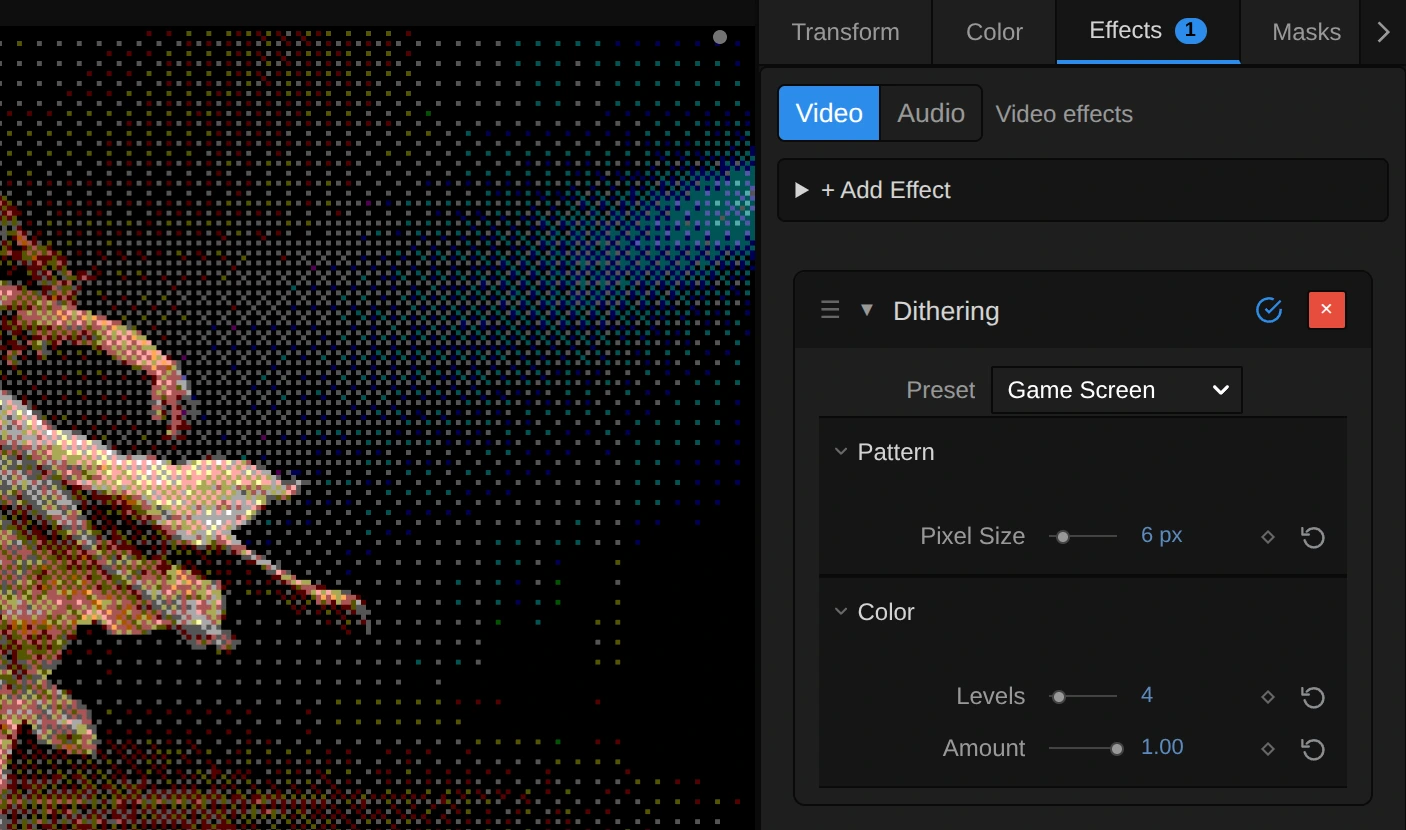
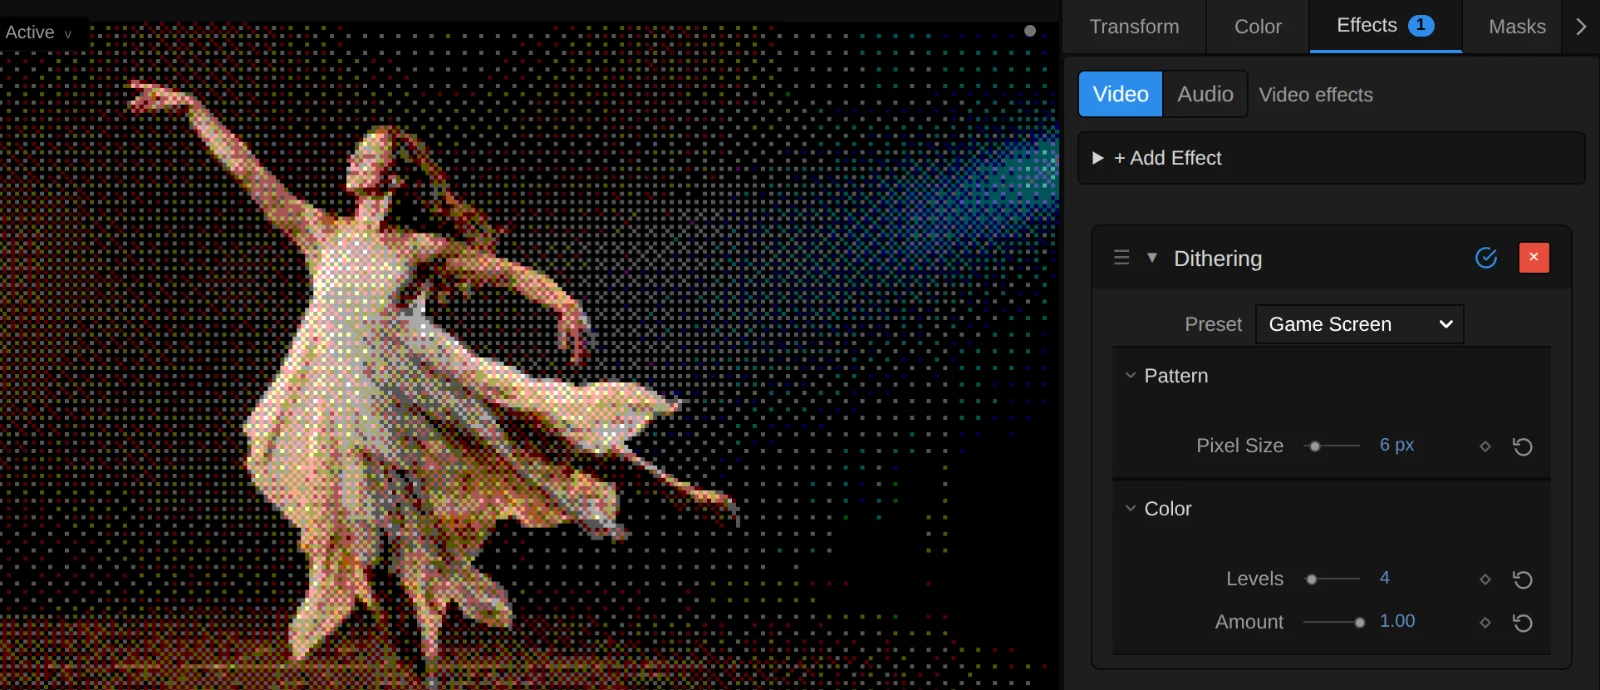
docs(print-looks): Dither and Riso preset strips at full size on the upper body, Dither inspector with the whole figure, truthful stage checker and Neon Sign texts, Riso Glow Registration range back to 80 for saved projects (tests: imageRisoGraphs, effectDocsCatalog, docsSiteSync, effectStyles, effe
Claude-Session: https://claude.ai/code/session_01SPCZUmow7FhgFsrvju87Zb

diff --git a/src/effects/halftone/index.ts b/src/effects/halftone/index.ts
@@ -114,8 +114,9 @@ export const risoGlow = createCatalogEffect({
   // Riso's print (same parameter ids) with a fluorescent Glow Ink that breathes. Card: Dot Size and Registration under
   // Pattern, Glow and Speed under Glow & Pulse, then the two inks and Amount under Color.
   params: {
-    // How far the two inks slip apart, in 1080p pixels (0: in register). Effects saved without a value had 14.
-    scale: { type: 'number', label: 'Registration', default: 3, min: 0, max: 32, step: 0.5, unit: ' px', renderMin: 0, group: 'Pattern', legacyDefault: 14 },
+    // How far the two inks slip apart, in 1080p pixels (0: in register). Effects saved without a value had 14; the range
+    // up to 80 is kept for saved projects (the earlier Riso Glow allowed 80), so a saved slip stays in the card and tools.
+    scale: { type: 'number', label: 'Registration', default: 3, min: 0, max: 80, step: 0.5, unit: ' px', renderMin: 0, group: 'Pattern', legacyDefault: 14 },
     // The cells of both dot screens, in 1080p pixels. A graph saved before Dot Size does not read it (graphOnly).
     dotSize: { type: 'number', label: 'Dot Size', default: 6, min: 2, max: 40, step: 1, unit: ' px', renderMin: 2, graphOnly: true, group: 'Pattern' },
     // How brightly the Glow Ink shines at the top of its pulse (0: a plain two-ink print). Reaches the twin through the Angle slot.

diff --git a/docs/Features/effects/dither.md b/docs/Features/effects/dither.md
@@ -6,7 +6,7 @@ Group: [Print & Halftone](../Effects-Print.md) · [How to add an effect](../Effe
 
 <figure class="docs-shot docs-compare docs-shot--float-left">
 
-![The dancer's face, shoulders and raised arm, original left and with Dithering right: skin, hair and dress turn into a fine checked pattern of a few flat colours, and the dark stage behind her becomes black with sparse grey and red pixels](../assets/effects/dither.webp)
+![The dancer's face, shoulders and raised arm, original left and with Dithering right: skin, hair and dress turn into a fine checked pattern of a few flat colours, and the dark stage becomes a fine checker of grey, red and olive pixels](../assets/effects/dither.webp)
 
 <figcaption>Left: original. Right: Dithering at its default settings, a detail at twice the size.</figcaption>
 </figure>
@@ -23,9 +23,9 @@ Group: [Print & Halftone](../Effects-Print.md) · [How to add an effect](../Effe
 
 <figure class="docs-shot docs-shot--detail">
 
-![The whole dancer four times, once per preset: Eight Colours as a light figure in fine coloured dots on black, Poster in hard steps of few colours with a coarse checker on the stage, Game Screen in chunky pixels of a few colours, and Big Pixels as a coarse mosaic in which the figure still reads](../assets/effects/presets/dither.webp)
+![The dancer's upper body four times, once per preset: Eight Colours as a light figure in fine dots of pure red, yellow and white on black, Poster in a coarse checker of few colours over the stage and the figure, Game Screen in chunky pixels of a few colours, and Big Pixels as a coarse mosaic in which face and arms still read](../assets/effects/presets/dither.webp)
 
-<figcaption>The four presets on the whole figure.</figcaption>
+<figcaption>The four presets on the upper body, at full size: one pixel of a 1080p frame per screen pixel.</figcaption>
 </figure>
 
 Pick one in the **Preset** row of the effect card. It sets all controls at once, in one undo step, and the row then shows its name until you change something. A control with keyframes keeps them, and the card says so.
@@ -45,18 +45,18 @@ Pick one in the **Preset** row of the effect card. It sets all controls at once,
 
 <div class="docs-shot-stage">
 
-![Properties, Effects with a Dithering card: Preset menu showing Game Screen, Pixel Size under Pattern, Levels and Amount under Color, beside a strip of the preview turned into chunky pixels of a few colours](../assets/effects/editor/dither-inspector.webp)
+![Properties, Effects with a Dithering card: Preset menu showing Game Screen, Pixel Size under Pattern, Levels and Amount under Color, beside the preview of the dancer in chunky pixels of a few colours, the dark stage a grid of coloured pixels](../assets/effects/editor/dither-inspector.webp)
 
-<svg class="docs-shot-overlay" viewBox="0 0 1017 600" aria-hidden="true" focusable="false">
+<svg class="docs-shot-overlay" viewBox="0 0 1017 438" aria-hidden="true" focusable="false">
 <defs><marker id="dither-inspector-arrow" viewBox="0 0 10 10" refX="8" refY="5" markerWidth="5" markerHeight="5" orient="auto-start-reverse"><path d="M 0 0 L 10 5 L 0 10 Z" fill="#ffd54a" /></marker></defs>
-<path class="docs-shot-arrow" d="M565 282 L649 282" marker-end="url(#dither-inspector-arrow)" />
-<circle class="docs-shot-number" cx="565" cy="282" r="18" /><text x="565" y="282" class="docs-shot-number-text">1</text>
-<path class="docs-shot-arrow" d="M575 387 L659 387" marker-end="url(#dither-inspector-arrow)" />
-<circle class="docs-shot-number" cx="575" cy="387" r="18" /><text x="575" y="387" class="docs-shot-number-text">2</text>
-<path class="docs-shot-arrow" d="M601 503 L685 503" marker-end="url(#dither-inspector-arrow)" />
-<circle class="docs-shot-number" cx="601" cy="503" r="18" /><text x="601" y="503" class="docs-shot-number-text">3</text>
-<path class="docs-shot-arrow" d="M592 540 L676 540" marker-end="url(#dither-inspector-arrow)" />
-<circle class="docs-shot-number" cx="592" cy="540" r="18" /><text x="592" y="540" class="docs-shot-number-text">4</text>
+<path class="docs-shot-arrow" d="M663 206 L747 206" marker-end="url(#dither-inspector-arrow)" />
+<circle class="docs-shot-number" cx="663" cy="206" r="18" /><text x="663" y="206" class="docs-shot-number-text">1</text>
+<path class="docs-shot-arrow" d="M670 283 L754 283" marker-end="url(#dither-inspector-arrow)" />
+<circle class="docs-shot-number" cx="670" cy="283" r="18" /><text x="670" y="283" class="docs-shot-number-text">2</text>
+<path class="docs-shot-arrow" d="M689 367 L773 367" marker-end="url(#dither-inspector-arrow)" />
+<circle class="docs-shot-number" cx="689" cy="367" r="18" /><text x="689" y="367" class="docs-shot-number-text">3</text>
+<path class="docs-shot-arrow" d="M682 395 L766 395" marker-end="url(#dither-inspector-arrow)" />
+<circle class="docs-shot-number" cx="682" cy="395" r="18" /><text x="682" y="395" class="docs-shot-number-text">4</text>
 </svg>
 </div>
 
@@ -65,11 +65,11 @@ Pick one in the **Preset** row of the effect card. It sets all controls at once,
 
 ### Pattern
 
-**Pixel Size** – how large the pixels are. Each pixel shows one colour of the picture, and its neighbours form the checked pattern, so the pattern grows with it. 1 px gives a fine grain that blends into a photo from a few metres away, 3 to 6 px a clear retro screen, 12 and more turns a figure into a mosaic. It counts pixels of a 1080p picture, so a 4K export shows the same pattern as the preview, and it always draws whole pixels: where a size does not fit the frame, the card says what renders. 1 to 24 px, default 3 px.
+**Pixel Size** – how large the pixels are. Each pixel shows one colour of the picture, and its neighbours form the checked pattern, so the pattern grows with it. 1 px gives a fine grain that blends into a photo from a few metres away, 3 to 6 px a clear retro screen, 12 and more turns a figure into a mosaic. It counts pixels of a 1080p picture, so a 4K export shows the same pattern as the preview, and it always draws whole pixels: where a size does not fit the frame, the card says what renders. Below 1 px (from keyframes or a tool) it renders 1 px, and the card says so. 1 to 24 px, default 3 px.
 
 ### Color
 
-**Levels** – how many steps each colour channel has, and so how many colours the picture may use: 2 gives black, white and six pure colours, 4 gives 64 colours, 6 the 216 of the early web. Few levels look loud and graphic, many levels quiet and close to the picture. The pattern mixes neighbouring steps so that, from a distance, every part keeps its brightness. On a dark stage that is not quite black this shows as a sparse, coloured checker; more Levels make it finer and calmer. Below 2 it renders 2, and the card says so. 2 to 16, default 4.
+**Levels** – how many steps each colour channel has, and so how many colours the picture may use: 2 gives black, white and six pure colours, 4 gives 64 colours, 6 the 216 of the early web. Few levels look loud and graphic, many levels quiet and close to the picture. The pattern mixes neighbouring steps so that, from a distance, every part keeps its brightness. A dark stage that is not quite black turns into a visible checker of grey and coloured pixels over the whole backdrop, the most visible thing on a projection. More Levels make it finer and calmer; grading the stage to true black before Dithering removes it. Below 2 it renders 2, and the card says so. 2 to 16, default 4.
 
 **Amount** – how much of the dithered picture covers the original. At 1 there are only the few colours; 0.5 lays the pattern softly over the picture's own colours; 0 switches it off. Keyframe it to let a scene turn into pixels on a cue. 0 to 1, default 1.
 
@@ -243,7 +243,7 @@ The picture averaged over boxes of half a cell, in linear light and weighted by 
 
 **sRGB to Linear** – the lower step (Divide by the Steps) as light; the upper step is built the same way, in the folder.
 
-**Divide** – the cell's light above the lower step, divided by the light between the two steps (Step Span): the Upper Share, from 0 to 1. Measured in light, not in screen values, so the pattern keeps the picture's brightness. Because the steps are equal in screen values, the first step above black is already fairly bright in light: a dark, not quite black stage becomes a sparse checker of coloured pixels on black instead of a flat dark tone.
+**Divide** – the cell's light above the lower step, divided by the light between the two steps (Step Span): the Upper Share, from 0 to 1. Measured in light, not in screen values, so the pattern keeps the picture's brightness. Because the steps are equal in screen values, the first step above black is already fairly bright in light: a dark, not quite black stage becomes a visible checker of grey and coloured pixels instead of a flat dark tone.
 
 ### Dither
 

diff --git a/docs/Features/effects/riso-glow.md b/docs/Features/effects/riso-glow.md
@@ -29,7 +29,7 @@ Pick one in the **Preset** row of the effect card. It sets all controls at once,
 
 **Blacklight** – medium blue and fluorescent pink, breathing slowly: a poster under ultraviolet light. The stage turns deep violet and the figure glows pink-white out of it.
 
-**Neon Sign** – teal and fluorescent coral in fine dots, with a quicker, livelier pulse: the figure stays pale and clear on a dark teal stage, with a coral sheen around its light parts. The calmest glow of the four.
+**Neon Sign** – teal and fluorescent coral in fine dots, the softest glow of the four, breathing a little faster than Blacklight: the figure stays pale and clear on a dark teal stage, with a coral sheen around its light parts.
 
 **Embers** – black and fluorescent coral in coarse dots, with a slow, strong glow: the figure glows coral in a smoky, almost black print, and the haze around it breathes. Calm and heavy, good for firelight and night scenes.
 
@@ -77,7 +77,7 @@ Pick one in the **Preset** row of the effect card. It sets all controls at once,
 <figcaption>Registration from 0 to 16 px and back.</figcaption>
 </figure>
 
-**Registration** – how far the two inks slip apart, like two drums of the press that did not line up. At 0 they print exactly on top of each other; 2 to 4 px gives the slight misprint of a real risograph; 10 and more lets the glow ink stand beside every edge of the figure as a glowing fringe. The shadow ink moves up and to the left, the glow ink down and to the right, half the distance each. 0 to 32 px, default 3 px.
+**Registration** – how far the two inks slip apart, like two drums of the press that did not line up. At 0 they print exactly on top of each other; 2 to 4 px gives the slight misprint of a real risograph; 10 and more lets the glow ink stand beside every edge of the figure as a glowing fringe. The shadow ink moves up and to the left, the glow ink down and to the right, half the distance each; far above 30 px the two prints come apart, a range kept for projects saved with the earlier Riso Glow. 0 to 80 px, default 3 px.
 
 ### Glow & Pulse
 

diff --git a/docs/Features/effects/halftone.md b/docs/Features/effects/halftone.md
@@ -73,7 +73,7 @@ Pick one in the **Preset** row of the effect card. It sets all controls at once,
 
 ### Pattern
 
-**Dot Size** – how far apart the dots sit, and so how large the largest dot gets. 4–8 px gives a fine press screen that reads as a photo from a few metres away, 14 a clear pattern of dots, 30 and more turns a figure into a graphic of large circles. Every cell of the grid prints one round dot, so detail smaller than a cell disappears. It counts pixels of a 1080p picture, so a 4K export shows the same dots as the preview, only sharper. 2 to 80 px, default 14 px.
+**Dot Size** – how far apart the dots sit, and so how large the largest dot gets. 4–8 px gives a fine press screen that reads as a photo from a few metres away, 14 a clear pattern of dots, 30 and more turns a figure into a graphic of large circles. Every cell of the grid prints one round dot, so detail smaller than a cell disappears. It counts pixels of a 1080p picture, so a 4K export shows the same dots as the preview, only sharper. Below 2 px (from keyframes or a tool) it renders 2 px, and the card says so. 2 to 80 px, default 14 px.
 
 **Angle** – how the grid of dots is turned, counter-clockwise. 0° gives straight rows and columns, 45° the diagonal screen of black-and-white newspapers, 15° or 75° looks like one ink of a colour print. The dots stay round at every angle. The grid looks the same every 90°, so 45° and −45° match. −180 to 180°, default 0°.
 

diff --git a/docs/Features/effects/riso.md b/docs/Features/effects/riso.md
@@ -23,9 +23,9 @@ Group: [Print & Halftone](../Effects-Print.md) · [How to add an effect](../Effe
 
 <figure class="docs-shot docs-shot--detail">
 
-![The whole dancer five times, once per preset: Zine in blue and pink dots with pink fringes on a violet stage, Postcard in teal and red on a dark teal stage, Art Print in fine green and pink dots on a dark aubergine stage, Gig Poster in bold black and red dots, and Off Register in large burgundy dots with aqua fringes beside every edge on navy](../assets/effects/presets/riso.webp)
+![The dancer's upper body five times, once per preset: Zine in blue and pink dots with pink fringes on a violet stage, Postcard in teal and red on a dark teal stage, Art Print in fine green and pink dots on a dark aubergine stage, Gig Poster in bold black and red dots, and Off Register in large burgundy dots with aqua fringes beside every edge on navy](../assets/effects/presets/riso.webp)
 
-<figcaption>The five presets on the whole figure.</figcaption>
+<figcaption>The five presets on the upper body, at full size: one pixel of a 1080p frame per screen pixel.</figcaption>
 </figure>
 
 Pick one in the **Preset** row of the effect card. It sets all controls at once, in one undo step, and the row then shows its name until you change something. A control with keyframes keeps them, and the card says so.
